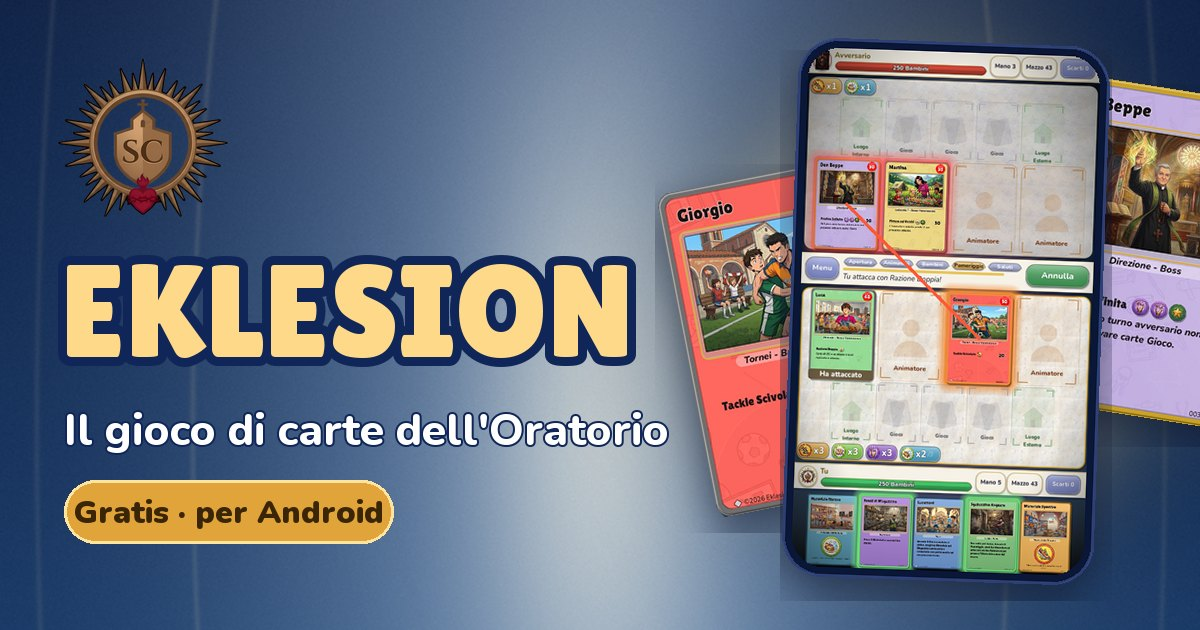
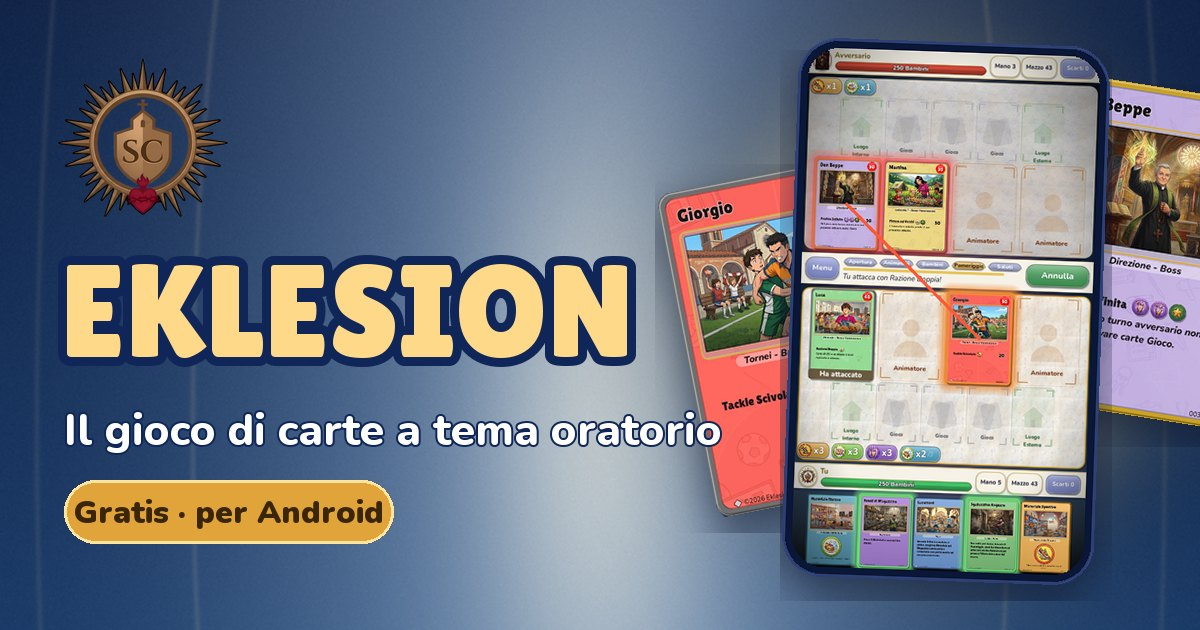
Gioco a tema oratorio, indirizzi puliti (/beta, /feedback)

Changed region(s): [[0.3083, 0.6333, 0.6167, 0.7238]]

diff --git a/beta.html b/beta.html
@@ -4,16 +4,16 @@
 <meta charset="utf-8">
 <meta name="viewport" content="width=device-width, initial-scale=1">
 <title>Diventa beta tester di Eklesion</title>
-<meta name="description" content="Provi Eklesion prima di tutti e ci aiuti a sistemarlo: chiedi un codice invito per diventare beta tester del gioco di carte dell'Oratorio. Gratuito, senza pubblicità.">
+<meta name="description" content="Provi Eklesion prima di tutti e ci aiuti a sistemarlo: chiedi un codice invito per diventare beta tester del gioco di carte a tema oratorio. Gratuito, senza pubblicità.">
 <meta name="theme-color" content="#0f2557">
 <!-- meta:inizio -->
-<link rel="canonical" href="https://eklesion.app/beta.html">
+<link rel="canonical" href="https://eklesion.app/beta">
 <meta property="og:type" content="website">
 <meta property="og:site_name" content="Eklesion">
 <meta property="og:locale" content="it_IT">
-<meta property="og:url" content="https://eklesion.app/beta.html">
+<meta property="og:url" content="https://eklesion.app/beta">
 <meta property="og:title" content="Diventa beta tester di Eklesion">
-<meta property="og:description" content="Provi Eklesion prima di tutti e ci aiuti a sistemarlo: chiedi un codice invito per diventare beta tester del gioco di carte dell'Oratorio. Gratuito, senza pubblicità.">
+<meta property="og:description" content="Provi Eklesion prima di tutti e ci aiuti a sistemarlo: chiedi un codice invito per diventare beta tester del gioco di carte a tema oratorio. Gratuito, senza pubblicità.">
 <meta property="og:image" content="https://eklesion.app/img/social.jpg">
 <meta property="og:image:type" content="image/jpeg">
 <meta property="og:image:width" content="1200">
@@ -21,7 +21,7 @@
 <meta property="og:image:alt" content="Eklesion, il gioco di carte dell'Oratorio: una battaglia sul telefono e due carte">
 <meta name="twitter:card" content="summary_large_image">
 <meta name="twitter:title" content="Diventa beta tester di Eklesion">
-<meta name="twitter:description" content="Provi Eklesion prima di tutti e ci aiuti a sistemarlo: chiedi un codice invito per diventare beta tester del gioco di carte dell'Oratorio. Gratuito, senza pubblicità.">
+<meta name="twitter:description" content="Provi Eklesion prima di tutti e ci aiuti a sistemarlo: chiedi un codice invito per diventare beta tester del gioco di carte a tema oratorio. Gratuito, senza pubblicità.">
 <meta name="twitter:image" content="https://eklesion.app/img/social.jpg">
 <link rel="apple-touch-icon" href="https://eklesion.app/img/apple-touch-icon.png">
 <!-- meta:fine -->

diff --git a/index.html b/index.html
@@ -3,7 +3,7 @@
 <head>
 <meta charset="utf-8">
 <meta name="viewport" content="width=device-width, initial-scale=1">
-<title>Eklesion - Il gioco di carte dell'Oratorio</title>
+<title>Eklesion - Il gioco di carte a tema oratorio</title>
 <meta name="description" content="Eklesion è il gioco di carte collezionabili per smartphone ambientato in oratorio: schiera Animatori, gestisci i Materiali, organizza i Giochi e proteggi i Bambini.">
 <meta name="theme-color" content="#0f2557">
 <!-- meta:inizio -->
@@ -12,7 +12,7 @@
 <meta property="og:site_name" content="Eklesion">
 <meta property="og:locale" content="it_IT">
 <meta property="og:url" content="https://eklesion.app/">
-<meta property="og:title" content="Eklesion - Il gioco di carte dell'Oratorio">
+<meta property="og:title" content="Eklesion - Il gioco di carte a tema oratorio">
 <meta property="og:description" content="Eklesion è il gioco di carte collezionabili per smartphone ambientato in oratorio: schiera Animatori, gestisci i Materiali, organizza i Giochi e proteggi i Bambini.">
 <meta property="og:image" content="https://eklesion.app/img/social.jpg">
 <meta property="og:image:type" content="image/jpeg">
@@ -20,7 +20,7 @@
 <meta property="og:image:height" content="630">
 <meta property="og:image:alt" content="Eklesion, il gioco di carte dell'Oratorio: una battaglia sul telefono e due carte">
 <meta name="twitter:card" content="summary_large_image">
-<meta name="twitter:title" content="Eklesion - Il gioco di carte dell'Oratorio">
+<meta name="twitter:title" content="Eklesion - Il gioco di carte a tema oratorio">
 <meta name="twitter:description" content="Eklesion è il gioco di carte collezionabili per smartphone ambientato in oratorio: schiera Animatori, gestisci i Materiali, organizza i Giochi e proteggi i Bambini.">
 <meta name="twitter:image" content="https://eklesion.app/img/social.jpg">
 <link rel="apple-touch-icon" href="https://eklesion.app/img/apple-touch-icon.png">
@@ -36,7 +36,7 @@
   <div class="wrap">
     <div>
       <span class="eyebrow">Gioco di carte per Android, Windows e browser</span>
-      <h1>EKLESION<small>Il gioco di carte dell'Oratorio</small></h1>
+      <h1>EKLESION<small>Il gioco di carte a tema oratorio</small></h1>
       <p class="lead">Schiera i tuoi Animatori, gestisci i Materiali del Magazzino, organizza i Giochi e difendi i Bambini del tuo oratorio. Una partita a carte per chi in oratorio ci è cresciuto, e per chi ci vuole entrare.</p>
       <div class="cta">
         <a class="btn" href="scarica.html">Scarica o gioca nel browser</a>

diff --git a/scarica.html b/scarica.html
@@ -7,11 +7,11 @@
 <meta name="description" content="Scarica Eklesion per Android e per Windows: come installare l'app e cominciare a giocare. Gratuito, senza pubblicità; l'accesso è ancora su invito (serve un codice).">
 <meta name="theme-color" content="#0f2557">
 <!-- meta:inizio -->
-<link rel="canonical" href="https://eklesion.app/scarica.html">
+<link rel="canonical" href="https://eklesion.app/scarica">
 <meta property="og:type" content="website">
 <meta property="og:site_name" content="Eklesion">
 <meta property="og:locale" content="it_IT">
-<meta property="og:url" content="https://eklesion.app/scarica.html">
+<meta property="og:url" content="https://eklesion.app/scarica">
 <meta property="og:title" content="Scarica Eklesion">
 <meta property="og:description" content="Scarica Eklesion per Android e per Windows: come installare l'app e cominciare a giocare. Gratuito, senza pubblicità; l'accesso è ancora su invito (serve un codice).">
 <meta property="og:image" content="https://eklesion.app/img/social.jpg">

diff --git a/privacy.html b/privacy.html
@@ -7,11 +7,11 @@
 <meta name="description" content="Quali dati usa Eklesion, perché e come sono protetti. In sintesi: l'email è facoltativa e non viene conservata, nessun nome vero, nessuna pubblicità.">
 <meta name="theme-color" content="#0f2557">
 <!-- meta:inizio -->
-<link rel="canonical" href="https://eklesion.app/privacy.html">
+<link rel="canonical" href="https://eklesion.app/privacy">
 <meta property="og:type" content="website">
 <meta property="og:site_name" content="Eklesion">
 <meta property="og:locale" content="it_IT">
-<meta property="og:url" content="https://eklesion.app/privacy.html">
+<meta property="og:url" content="https://eklesion.app/privacy">
 <meta property="og:title" content="Privacy - Eklesion">
 <meta property="og:description" content="Quali dati usa Eklesion, perché e come sono protetti. In sintesi: l'email è facoltativa e non viene conservata, nessun nome vero, nessuna pubblicità.">
 <meta property="og:image" content="https://eklesion.app/img/social.jpg">

diff --git a/come-si-gioca.html b/come-si-gioca.html
@@ -7,11 +7,11 @@
 <meta name="description" content="Le regole di Eklesion spiegate bene: obiettivo, mazzo, turno in cinque fasi, Materiali, Animatori, Giochi, Luoghi, Temi e Imprevisti.">
 <meta name="theme-color" content="#0f2557">
 <!-- meta:inizio -->
-<link rel="canonical" href="https://eklesion.app/come-si-gioca.html">
+<link rel="canonical" href="https://eklesion.app/come-si-gioca">
 <meta property="og:type" content="website">
 <meta property="og:site_name" content="Eklesion">
 <meta property="og:locale" content="it_IT">
-<meta property="og:url" content="https://eklesion.app/come-si-gioca.html">
+<meta property="og:url" content="https://eklesion.app/come-si-gioca">
 <meta property="og:title" content="Come si gioca - Eklesion">
 <meta property="og:description" content="Le regole di Eklesion spiegate bene: obiettivo, mazzo, turno in cinque fasi, Materiali, Animatori, Giochi, Luoghi, Temi e Imprevisti.">
 <meta property="og:image" content="https://eklesion.app/img/social.jpg">

diff --git a/feedback.html b/feedback.html
@@ -7,11 +7,11 @@
 <meta name="description" content="Hai trovato un problema, hai un'idea o vuoi dirci cosa ne pensi di Eklesion? Scrivici da qui: il messaggio arriva a info@eklesion.app.">
 <meta name="theme-color" content="#0f2557">
 <!-- meta:inizio -->
-<link rel="canonical" href="https://eklesion.app/feedback.html">
+<link rel="canonical" href="https://eklesion.app/feedback">
 <meta property="og:type" content="website">
 <meta property="og:site_name" content="Eklesion">
 <meta property="og:locale" content="it_IT">
-<meta property="og:url" content="https://eklesion.app/feedback.html">
+<meta property="og:url" content="https://eklesion.app/feedback">
 <meta property="og:title" content="Invia un feedback su Eklesion">
 <meta property="og:description" content="Hai trovato un problema, hai un'idea o vuoi dirci cosa ne pensi di Eklesion? Scrivici da qui: il messaggio arriva a info@eklesion.app.">
 <meta property="og:image" content="https://eklesion.app/img/social.jpg">

diff --git a/modalita.html b/modalita.html
@@ -7,11 +7,11 @@
 <meta name="description" content="Campagna di un anno, Ranked, Learning, Amichevoli e tornei, Test mazzo: tutte le modalità di Eklesion, i premi e come si progredisce.">
 <meta name="theme-color" content="#0f2557">
 <!-- meta:inizio -->
-<link rel="canonical" href="https://eklesion.app/modalita.html">
+<link rel="canonical" href="https://eklesion.app/modalita">
 <meta property="og:type" content="website">
 <meta property="og:site_name" content="Eklesion">
 <meta property="og:locale" content="it_IT">
-<meta property="og:url" content="https://eklesion.app/modalita.html">
+<meta property="og:url" content="https://eklesion.app/modalita">
 <meta property="og:title" content="Modalità di gioco - Eklesion">
 <meta property="og:description" content="Campagna di un anno, Ranked, Learning, Amichevoli e tornei, Test mazzo: tutte le modalità di Eklesion, i premi e come si progredisce.">
 <meta property="og:image" content="https://eklesion.app/img/social.jpg">

diff --git a/js/site.js b/js/site.js
@@ -31,7 +31,7 @@ function inietta() {
     foot.outerHTML = `
 <footer class="foot"><div class="wrap">
   <a class="brand" href="index.html"><img src="img/emblema.png" alt="" width="32" height="32">EKLESION</a>
-  <div>Il gioco di carte dell'Oratorio · versione beta ${VERSIONE}<br>© 2026 Eklesion. Tutti i diritti riservati.<br>Le illustrazioni sono realizzate con l'aiuto dell'intelligenza artificiale.</div>
+  <div>Il gioco di carte a tema oratorio · versione beta ${VERSIONE}<br>© 2026 Eklesion. Tutti i diritti riservati.<br>Le illustrazioni sono realizzate con l'aiuto dell'intelligenza artificiale.</div>
   <div><a href="come-si-gioca.html">Regole</a> · <a href="carte.html">Carte</a> · <a href="modalita.html">Modalità</a> · <a href="scarica.html">Scarica</a> · <a href="beta.html">Beta tester</a> · <a href="feedback.html">Feedback</a> · <a href="privacy.html">Privacy</a> · <a href="mailto:info@eklesion.app">Contatti</a></div>
 </div></footer>`;
   }

diff --git a/carte.html b/carte.html
@@ -7,11 +7,11 @@
 <meta name="description" content="Tutte le carte di Eklesion: Animatori, Giochi, Luoghi, Temi, Imprevisti e Materiali. Filtra per tipo, rarità e ruolo, leggi gli effetti.">
 <meta name="theme-color" content="#0f2557">
 <!-- meta:inizio -->
-<link rel="canonical" href="https://eklesion.app/carte.html">
+<link rel="canonical" href="https://eklesion.app/carte">
 <meta property="og:type" content="website">
 <meta property="og:site_name" content="Eklesion">
 <meta property="og:locale" content="it_IT">
-<meta property="og:url" content="https://eklesion.app/carte.html">
+<meta property="og:url" content="https://eklesion.app/carte">
 <meta property="og:title" content="Le carte - Eklesion">
 <meta property="og:description" content="Tutte le carte di Eklesion: Animatori, Giochi, Luoghi, Temi, Imprevisti e Materiali. Filtra per tipo, rarità e ruolo, leggi gli effetti.">
 <meta property="og:image" content="https://eklesion.app/img/social.jpg">

diff --git a/README.md b/README.md
@@ -1,6 +1,6 @@
 # Eklesion - sito
 
-Sito web di **Eklesion**, il gioco di carte dell'Oratorio per Android.
+Sito web di **Eklesion**, il gioco di carte a tema oratorio per Android.
 
 Pagine: presentazione (`index.html`), regole (`come-si-gioca.html`), carte con filtri (`carte.html`), modalità di gioco (`modalita.html`), download (`scarica.html`) e informativa sulla privacy (`privacy.html`).
 
